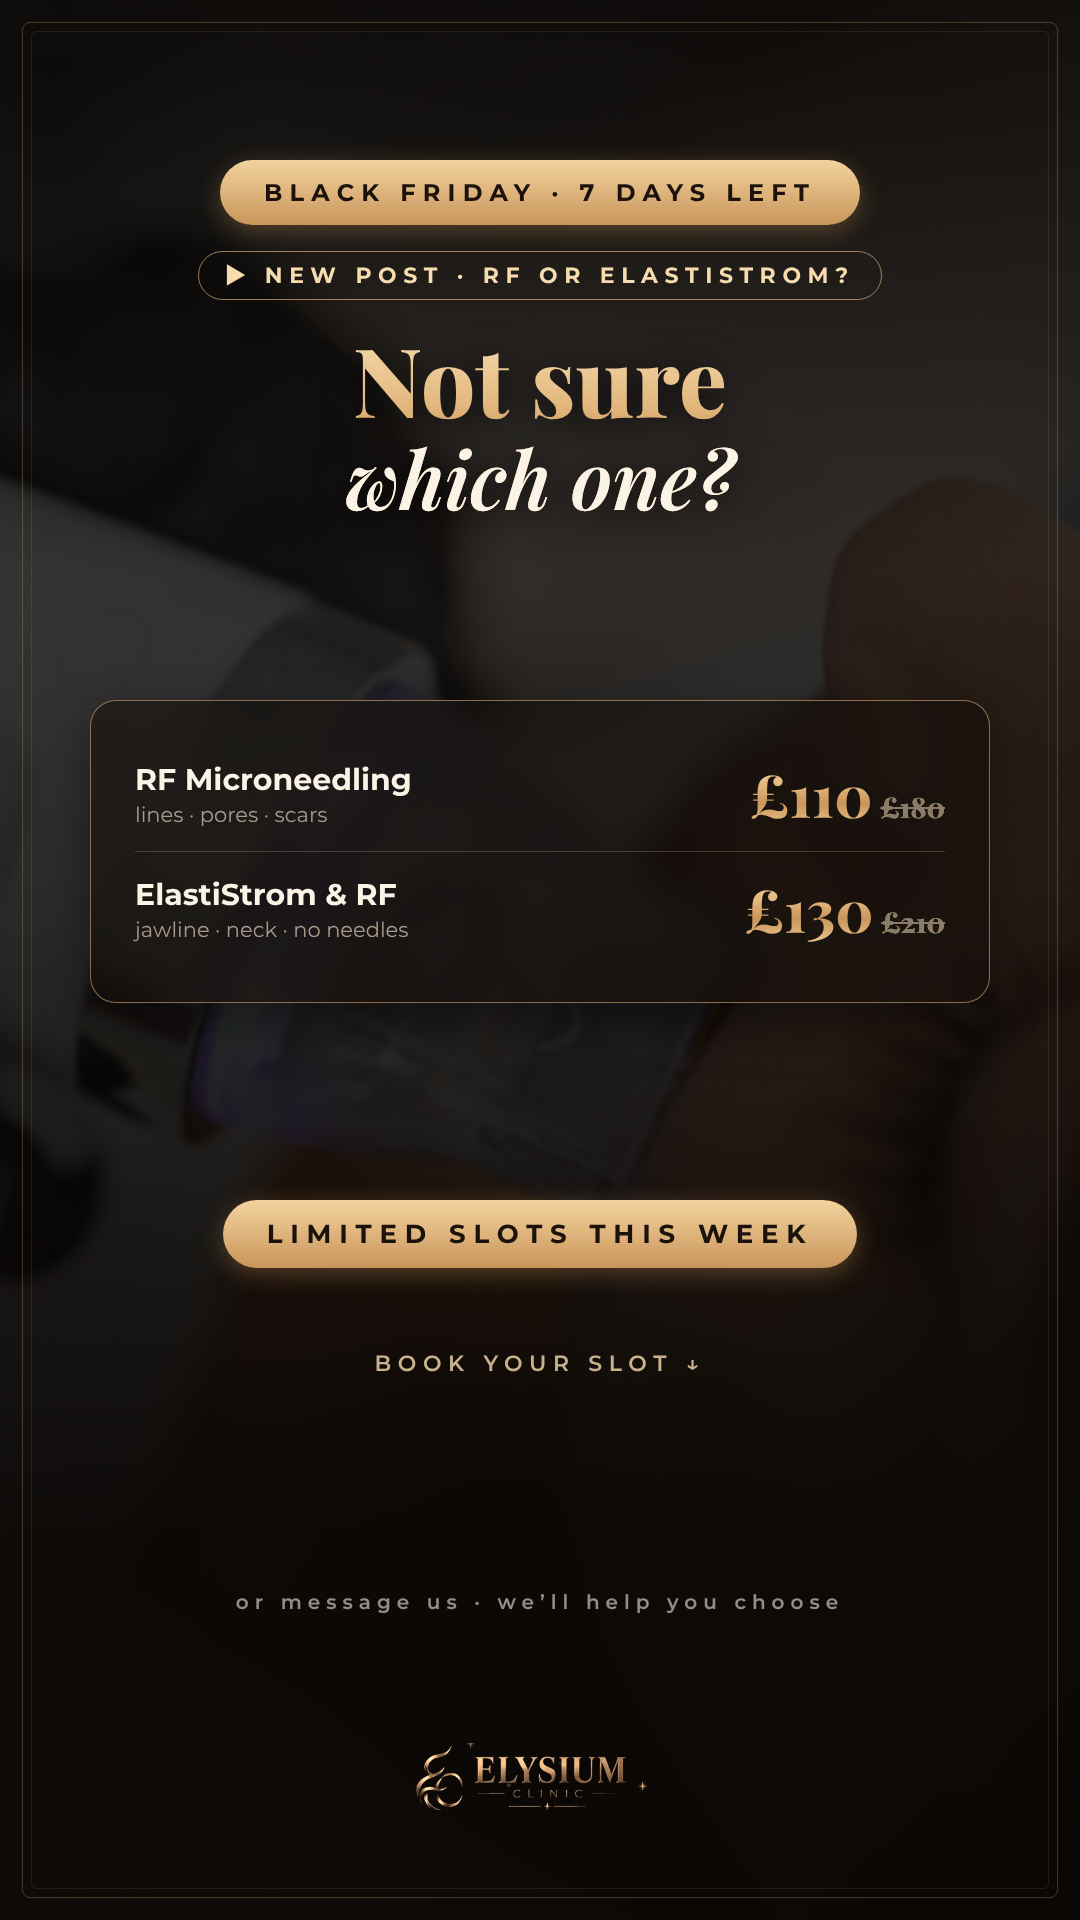
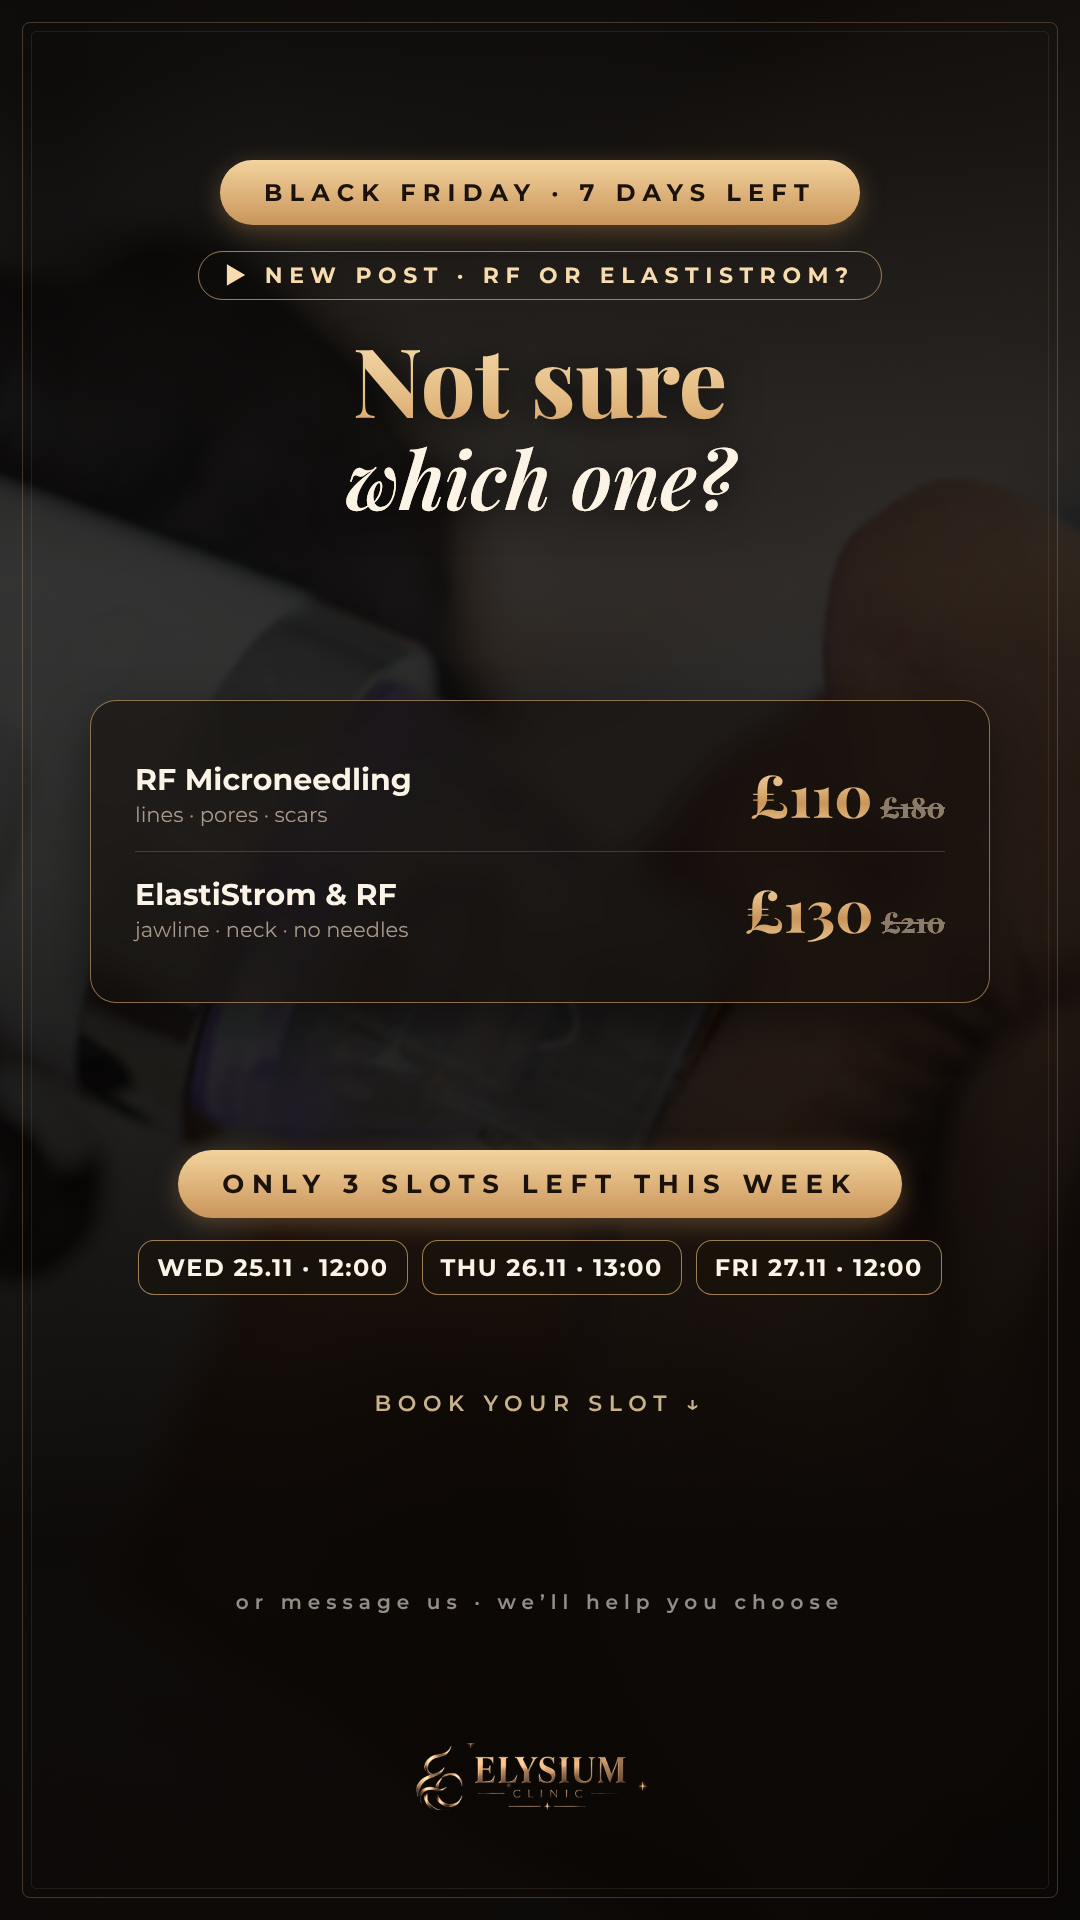
23.11: evening story with 3 remaining slots and dates
Claude-Session: https://claude.ai/code/session_01SaUhS5EeEBn7oMfuXG8zXf

Changed region(s): [[0.1528, 0.5938, 0.8556, 0.75]]

diff --git a/posts_23_11/src/s3_2030.html b/posts_23_11/src/s3_2030.html
@@ -12,7 +12,9 @@
 .rw .d{font-size:21px;color:#a8998a;margin-top:4px}
 .rw .p{font-family:'Playfair Display',serif;font-size:58px;font-weight:800}
 .rw .p s{font-size:28px;color:#8a7c6a;-webkit-text-fill-color:#8a7c6a;margin-left:8px}
-.slots{position:absolute;left:0;right:0;top:1200px;text-align:center}
+.slots{position:absolute;left:0;right:0;top:1150px;text-align:center}
+.dates{display:flex;justify-content:center;gap:14px;margin-top:22px}
+.dates span{font-size:24px;font-weight:700;letter-spacing:.06em;color:#fbf3e6;padding:12px 18px;border-radius:16px;border:1.5px solid rgba(216,173,116,.7);background:rgba(24,18,12,.7)}
 .zone{position:absolute;left:0;right:0;text-align:center;font-size:22px;letter-spacing:.3em;color:rgba(246,220,174,.8);font-weight:600}
 .logo{bottom:110px;width:250px}
 </style></head><body><div class="s"><div class="bg"></div><div class="shade"></div><div class="deco"></div>
@@ -21,7 +23,7 @@
 <div class="card glass">
 <div class="rw"><div><div class="n">RF Microneedling</div><div class="d">lines · pores · scars</div></div><div class="p goldtext">£110<s>£180</s></div></div>
 <div class="rw"><div><div class="n">ElastiStrom &amp; RF</div><div class="d">jawline · neck · no needles</div></div><div class="p goldtext">£130<s>£210</s></div></div></div>
-<div class="slots"><div class="pill" style="font-size:26px">__SLOTS__</div></div>
-<div class="zone" style="top:1350px">BOOK YOUR SLOT ↓</div>
+<div class="slots"><div class="pill" style="font-size:26px">__SLOTS__</div><div class="dates"><span>WED 25.11 · 12:00</span><span>THU 26.11 · 13:00</span><span>FRI 27.11 · 12:00</span></div></div>
+<div class="zone" style="top:1390px">BOOK YOUR SLOT ↓</div>
 <div class="zone" style="top:1590px;font-size:20px;color:rgba(239,230,218,.6)">or message us · we’ll help you choose</div>
 <div class="logo"><img src="logo.png"></div></div></body></html>

diff --git a/posts_23_11/teksty.md b/posts_23_11/teksty.md
@@ -59,7 +59,7 @@ RF mikroigłowy czy ElastiStrom? 🤔 RF mikroigłowy (£110) na zmarszczki, por
 
 ## STORY 3 (20:30): `story3_2030_rf_czy_elastistrom.png`
 - Najpierw udostępnij P5 z naklejką „New post”, potem tę planszę.
-- Na grafice jest „LIMITED SLOTS THIS WEEK”. Gdy sprawdzisz wolne terminy, podaj liczbę, a wygeneruję wersję „ONLY X SLOTS LEFT THIS WEEK” (`node src/render.js X`).
+- Na grafice: „ONLY 3 SLOTS LEFT THIS WEEK” i terminy WED 25.11 · 12:00 / THU 26.11 · 13:00 / FRI 27.11 · 12:00. Gdy któryś się zajmie, daj znać, a zaktualizuję grafikę.
 - **Naklejka Link** (Fresha) pod „BOOK YOUR SLOT ↓” i **odliczanie** do 30.11.
 
 ## Odpowiedź na „Not sure” z ankiety (szablon)
